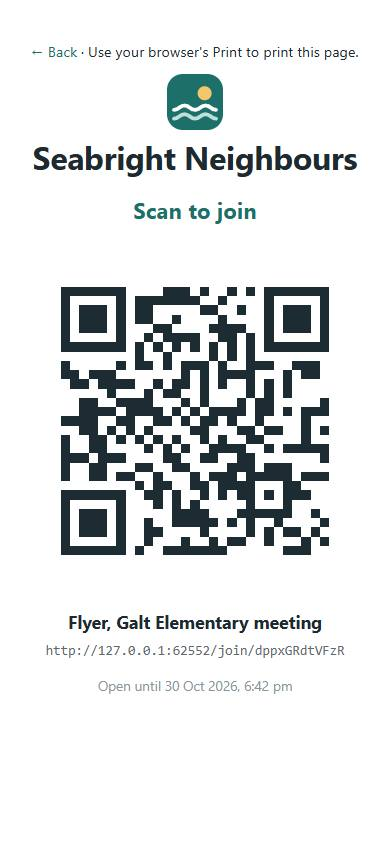
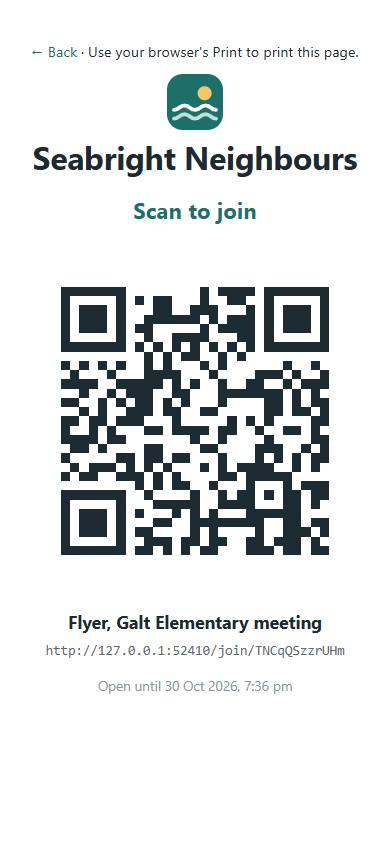
a13313: the evening passes 49/49 against the kernel's c7b9213 (fallbacks dropped)

diff --git a/research/community-app/site/evidence/evening/report.md b/research/community-app/site/evidence/evening/report.md
@@ -1,4 +1,4 @@
-> Written by `scenario/evening.py` (sign-in story a13313). Every line below was printed by the run; nothing is edited by hand. **ran**, 23 Oct 2026 18:43.
+> Written by `scenario/evening.py` (sign-in story a13313). Every line below was printed by the run; nothing is edited by hand. **ran**, 23 Oct 2026 19:37.
 
 # An evening of joining
 
@@ -7,7 +7,7 @@
 ## Checks
 
 - PASS: Alex lands on home
-- PASS: the flyer's QR code carries the flyer's invite link (http://127.0.0.1:62552/join/dppxGRdtVFzR)
+- PASS: the flyer's QR code carries the flyer's invite link (http://127.0.0.1:52410/join/TNCqQSzzrUHm)
 - PASS: Alex's account is joined to his kernel person (the steward)
 - PASS: Maya R. gets in through Instagram (home)
 - PASS: Jordan P. gets in through Instagram (home)
@@ -59,55 +59,55 @@
 ## What happened
 
 ```
-   1.2s  setup      entry service, Google stand-in and a headless msedge on loopback; data in a temporary folder
-   8.0s  Alex       signed in on his phone by emailed link and answered the questions
-   8.8s  Alex       made three invites: Instagram (no limit), the meeting flyer (QR, 7 days), Sam (one use)
-   9.0s  phone      a camera reads the printed flyer's QR code: http://127.0.0.1:62552/join/dppxGRdtVFzR
-   9.6s  kernel     world founded with Alex as steward, on its own loopback port: {'ok': True, 'records': 1}
-  10.6s  Maya R.    Instagram link, link: home
-  11.4s  Jordan P.  Instagram link, google: home
-  12.2s  Priya S.   Instagram link, code: home
-  13.3s  Luis M.    Instagram link, link: home
-  14.6s  Hannah K.  Instagram link, google: home
-  15.5s  Dev A.     Instagram link, code: home
-  16.6s  Grace L.   Instagram link, link: home
-  17.3s  Omar F.    Instagram link, google: home
-  18.0s  Tess W.    Instagram link, link: home
-  18.6s  Ken O.     Instagram link, code: home
-  19.4s  Bea N.     Instagram link, google: home
-  20.1s  Sol V.     Instagram link, link: home
-  21.1s  Carmen D.  scanned the flyer at the meeting, code: home
-  22.4s  Pat G.     scanned the flyer at the meeting, google: home
-  24.2s  Rich B.    scanned the flyer at the meeting, code: home
-  25.2s  Yuki M.    scanned the flyer at the meeting, link: home
-  26.0s  Abel S.    scanned the flyer at the meeting, code: home
-  26.8s  June H.    scanned the flyer at the meeting, google: home
-  27.9s  Sam        Alex's direct link: home
-  28.5s  Sam's friend opens the link Sam forwarded: it has been used
-  28.5s  bot        finds the Instagram link and starts making accounts
-  29.8s  Ana C.     Instagram link during the flood, code: home
-  30.5s  Will T.    Instagram link during the flood, google: home
-  30.8s  Rosa       asks for a sign-in email on the Instagram link
-  31.0s  Alex       opens Invites on his phone: Instagram Link · made by Alex H. · until 22 Nov 2026 Open 26 joined 26 in the last hour
-  31.1s  Alex       opens Instagram's invite: 13 'FREE CRYPTO' names among who came through
-  31.3s  Alex       freezes the Instagram link
-  31.3s  bot        gives up: {'joined': 14, 'closed': 3, 'slowed': 0, 'refused': 0, 'no_link': 0}
-  31.5s  Rosa       types her code after the freeze: We couldn't sign you in This invite link has closed. Ask whoever sent it for a new one. Back to sign in Made b
-  32.0s  Rosa       a neighbour shows her the flyer; she scans it: home
-  32.8s  Theo       Instagram says paused; he uses the flyer: home
-  33.5s  Nora E.    scanned the flyer after the freeze, code: home
-  34.3s  Felix Q.   scanned the flyer after the freeze, link: home
-  35.1s  Iris J.    scanned the flyer after the freeze, code: home
-  35.8s  Marco Z.   scanned the flyer after the freeze, google: home
-  36.8s  Lena U.    scanned the flyer after the freeze, code: home
-  37.6s  Hugo I.    scanned the flyer after the freeze, link: home
-  38.3s  Maya       on her laptop asks for a sign-in email; opens it on her phone
-  38.6s  Maya       types the code on the laptop
-  39.1s  kernel     read back each person's answers as that person: 29 of 29 match
-  39.1s  kernel     Alex (a leader) reads Maya: Maya R. (sb16), a person · answers: display_name=Maya R., help=['meetings', 'research'], neighbourhood=Seabright
-  39.1s  kernel     Bea (a member) reads Maya: Maya R. (sb16), a person
-  70.3s  kernel     Maya's old phone session, 31 s later: {'status': 401, 'error': 'this session is not signed in (or has ended); sign in again'}
-  70.3s  count      29 neighbours plus Alex; uses per link: {'Instagram': 28, 'Flyer, Galt Elementary meeting': 14, 'Direct: Sam': 1}; bots that got in before the freeze: 14
+   0.9s  setup      entry service, Google stand-in and a headless msedge on loopback; data in a temporary folder
+   6.0s  Alex       signed in on his phone by emailed link and answered the questions
+   6.6s  Alex       made three invites: Instagram (no limit), the meeting flyer (QR, 7 days), Sam (one use)
+   6.9s  phone      a camera reads the printed flyer's QR code: http://127.0.0.1:52410/join/TNCqQSzzrUHm
+   7.4s  kernel     world founded with Alex as steward, on its own loopback port: {'ok': True, 'records': 1}
+   8.2s  Maya R.    Instagram link, link: home
+   8.8s  Jordan P.  Instagram link, google: home
+   9.5s  Priya S.   Instagram link, code: home
+  10.2s  Luis M.    Instagram link, link: home
+  10.8s  Hannah K.  Instagram link, google: home
+  11.5s  Dev A.     Instagram link, code: home
+  12.2s  Grace L.   Instagram link, link: home
+  13.0s  Omar F.    Instagram link, google: home
+  13.7s  Tess W.    Instagram link, link: home
+  14.7s  Ken O.     Instagram link, code: home
+  15.4s  Bea N.     Instagram link, google: home
+  16.1s  Sol V.     Instagram link, link: home
+  16.8s  Carmen D.  scanned the flyer at the meeting, code: home
+  17.4s  Pat G.     scanned the flyer at the meeting, google: home
+  18.1s  Rich B.    scanned the flyer at the meeting, code: home
+  18.7s  Yuki M.    scanned the flyer at the meeting, link: home
+  19.3s  Abel S.    scanned the flyer at the meeting, code: home
+  19.8s  June H.    scanned the flyer at the meeting, google: home
+  20.5s  Sam        Alex's direct link: home
+  20.8s  Sam's friend opens the link Sam forwarded: it has been used
+  20.8s  bot        finds the Instagram link and starts making accounts
+  21.6s  Ana C.     Instagram link during the flood, code: home
+  22.2s  Will T.    Instagram link during the flood, google: home
+  22.6s  Rosa       asks for a sign-in email on the Instagram link
+  22.9s  Alex       opens Invites on his phone: Instagram Link · made by Alex H. · until 22 Nov 2026 Open 26 joined 26 in the last hour
+  23.0s  Alex       opens Instagram's invite: 13 'FREE CRYPTO' names among who came through
+  23.2s  Alex       freezes the Instagram link
+  23.2s  bot        gives up: {'joined': 14, 'closed': 3, 'slowed': 0, 'refused': 0, 'no_link': 0}
+  23.3s  Rosa       types her code after the freeze: We couldn't sign you in This invite link has closed. Ask whoever sent it for a new one. Back to sign in Made b
+  23.8s  Rosa       a neighbour shows her the flyer; she scans it: home
+  24.6s  Theo       Instagram says paused; he uses the flyer: home
+  25.3s  Nora E.    scanned the flyer after the freeze, code: home
+  26.1s  Felix Q.   scanned the flyer after the freeze, link: home
+  26.8s  Iris J.    scanned the flyer after the freeze, code: home
+  28.1s  Marco Z.   scanned the flyer after the freeze, google: home
+  28.7s  Lena U.    scanned the flyer after the freeze, code: home
+  29.4s  Hugo I.    scanned the flyer after the freeze, link: home
+  29.7s  Maya       on her laptop asks for a sign-in email; opens it on her phone
+  30.0s  Maya       types the code on the laptop
+  30.4s  kernel     read back each person's answers as that person: 29 of 29 match
+  30.5s  kernel     Alex (a leader) reads Maya: Maya R. (sb21), a person · answers: display_name=Maya R., help=['meetings', 'research'], neighbourhood=Seabright
+  30.5s  kernel     Bea (a member) reads Maya: Maya R. (sb21), a person
+  61.6s  kernel     Maya's old phone session, 31 s later: {'status': 401, 'error': 'this session is not signed in (or has ended); sign in again'}
+  61.6s  count      29 neighbours plus Alex; uses per link: {'Direct: Sam': 1, 'Instagram': 28, 'Flyer, Galt Elementary meeting': 14}; bots that got in before the freeze: 14
 ```
 
 ## Screenshots

diff --git a/research/community-app/site/README.md b/research/community-app/site/README.md
@@ -97,7 +97,7 @@ The cost is two pieces of the standard library's missing crypto written here and
 
 ## Evidence
 
-**ran** (23 Oct, `scenario/evening.py`, the report is [evidence/evening/report.md](evidence/evening/report.md)): **49 of 49 checks passed**, in two of the last three runs (the third is explained below).
+**ran** (23 Oct, `scenario/evening.py`, the report is [evidence/evening/report.md](evidence/evening/report.md)): **49 of 49 checks passed**, in two of three runs that night (the third is explained below), and again against the kernel's commit 2d872eb, which speaks only the agreed contract.
 - **Setup.** Alex signed in on his phone by emailed link and made three invites: Instagram, a flyer QR code for the Galt Elementary meeting, and a one-use link for Sam. The flyer's QR code was read back from the printed poster's pixels (`scenario/qr_read.py`) and carried the flyer's link.
 - **The kernel.** Its world was founded with Alex as steward, in its own process on its own port.
 - **Joining.** 29 neighbours joined at phone width (390×844), each in a browser of their own, by Google (stand-in), by tapping the emailed link, or by typing the emailed code. The 12 at the meeting shared one wifi address.
